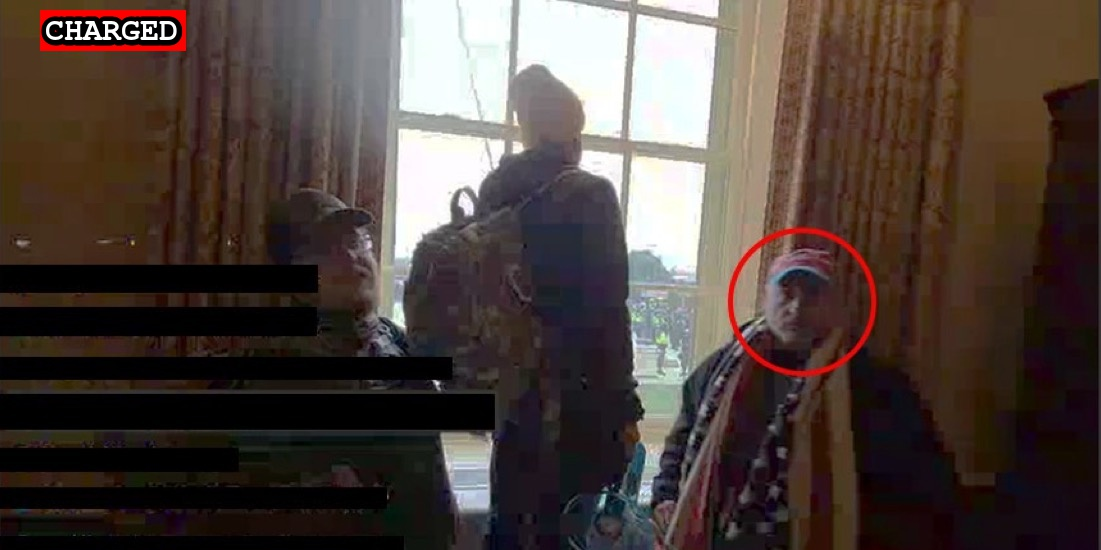
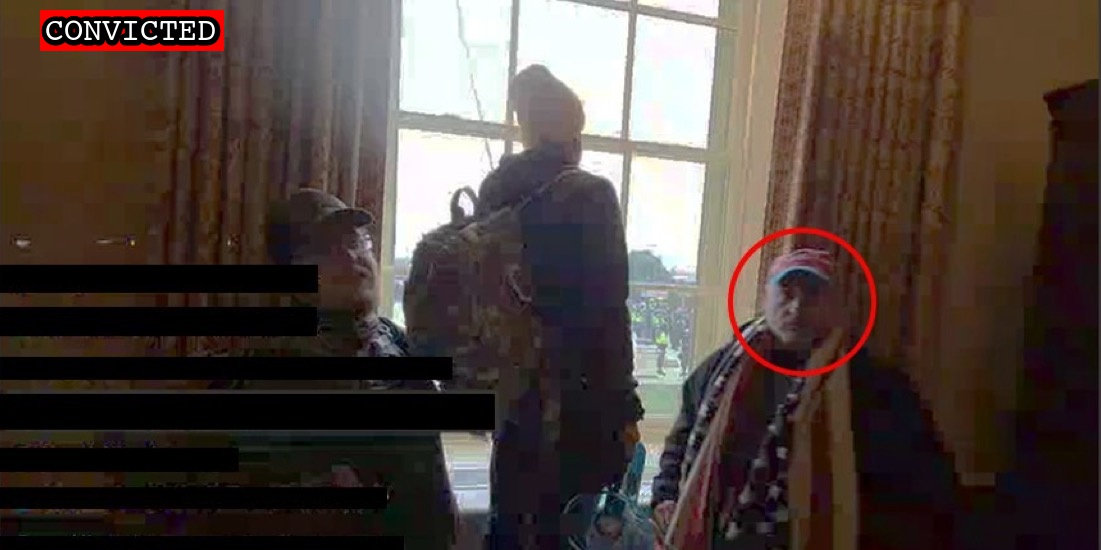
Wiersma plea

Changed region(s): [[0.0309, 0.0, 0.2162, 0.0927]]

diff --git a/docs/_suspects/david-wiersma.md b/docs/_suspects/david-wiersma.md
@@ -4,15 +4,18 @@ lastName: Wiersma
 hashtag: DavidWiersma
 aka:
 residence: Illinois
-status: Charged
+status: Convicted
 date: 2021-09-13
 charged: 2021-09-13
 indicted:
-convicted:
+convicted: 2022-08-30
+acquitted:
 sentenced:
 dismissed:
 deceased:
 plea_hearing: 2022-08-30
+trial_date:
+trial_type:
 sentencing:
 age: 66
 occupation:
@@ -34,9 +37,15 @@ published: true
 caseNumber: 1:21-mj-599
 videos:
 charges:
+  - code: 40 USC § 5104(e)(2)(G)
+    title: Parading, demonstrating or picketing in a Capitol building
+    url: https://www.law.cornell.edu/uscode/text/40/5104
+    felony: false
 sentence:
 ---
 
 - [News Report](https://chicago.suntimes.com/crime/2021/9/21/22686870/like-going-shopping-mall-two-arrested-suburbs-alleged-role-us-capitol-breach)
 - [Statement of Facts](https://www.justice.gov/usao-dc/case-multi-defendant/file/1434616/download)
 - [Information](https://extremism.gwu.edu/sites/g/files/zaxdzs2191/f/David%20Wiersma%20and%20Dawn%20Frankowski%20Information.pdf)
+- [Plea Agreement](https://storage.courtlistener.com/recap/gov.uscourts.dcd.235940/gov.uscourts.dcd.235940.52.0_1.pdf)
+- [Statement of Offense](https://storage.courtlistener.com/recap/gov.uscourts.dcd.235940/gov.uscourts.dcd.235940.53.0.pdf)
